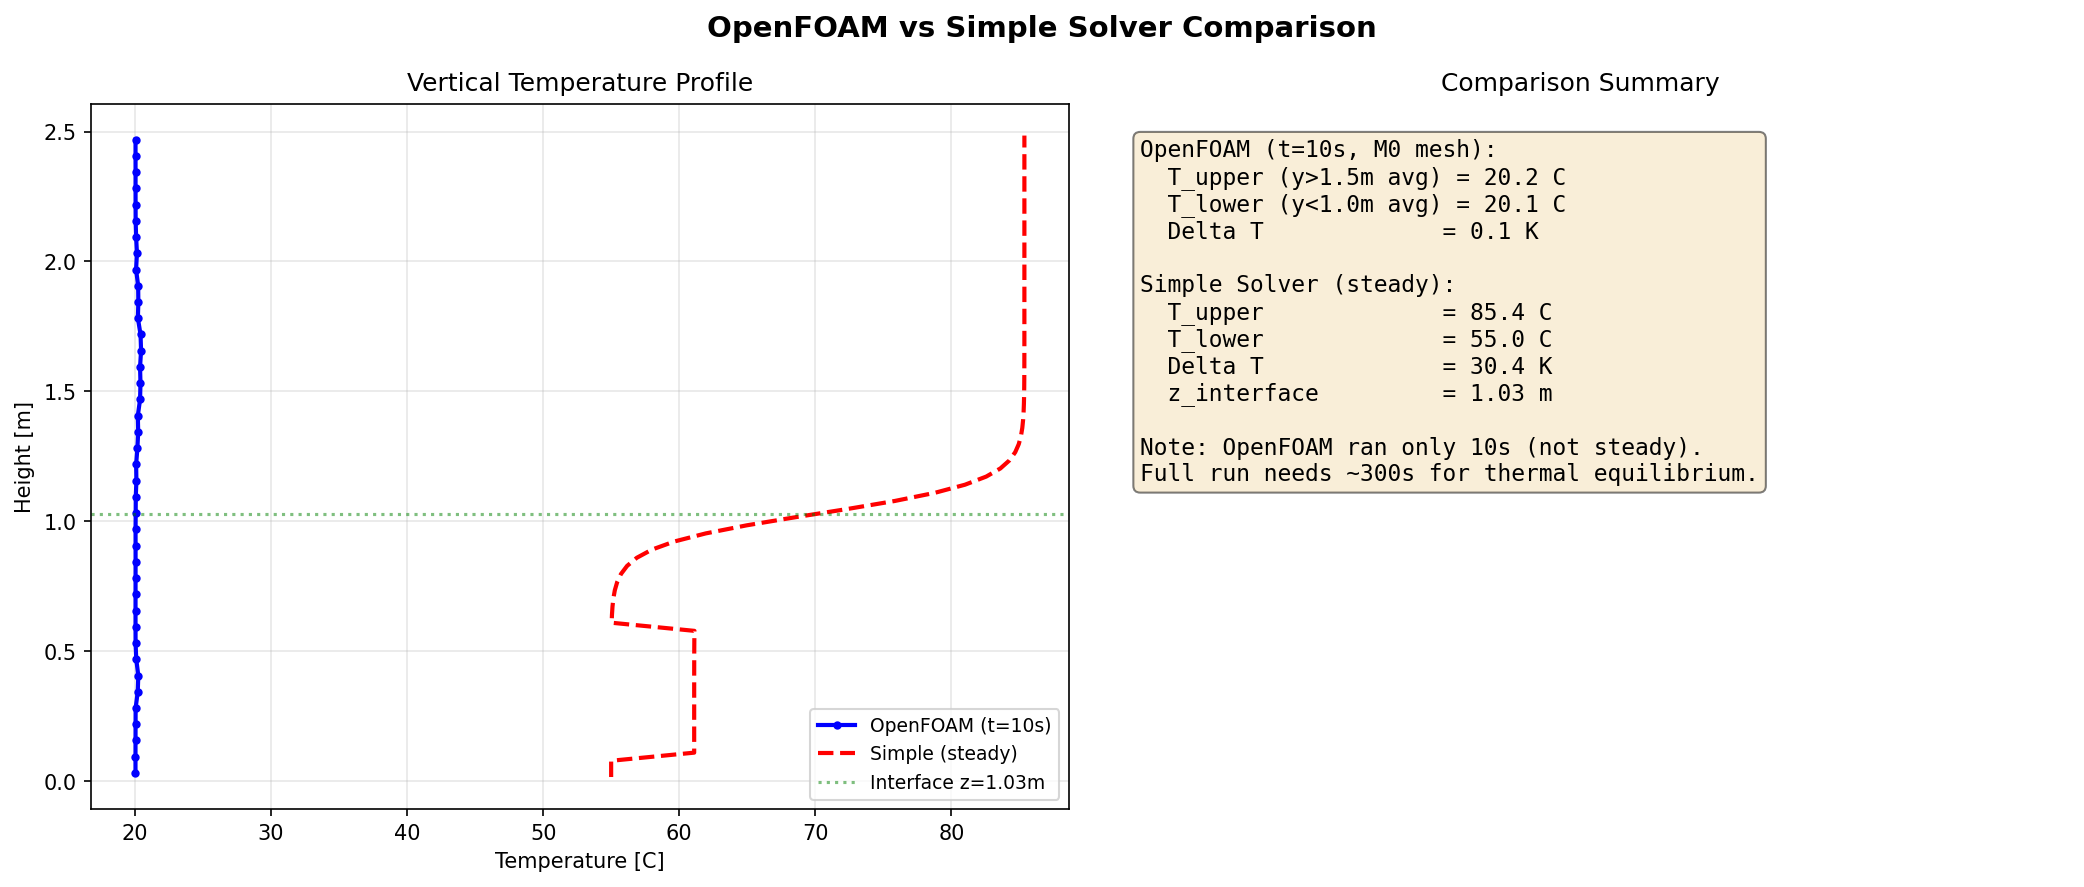
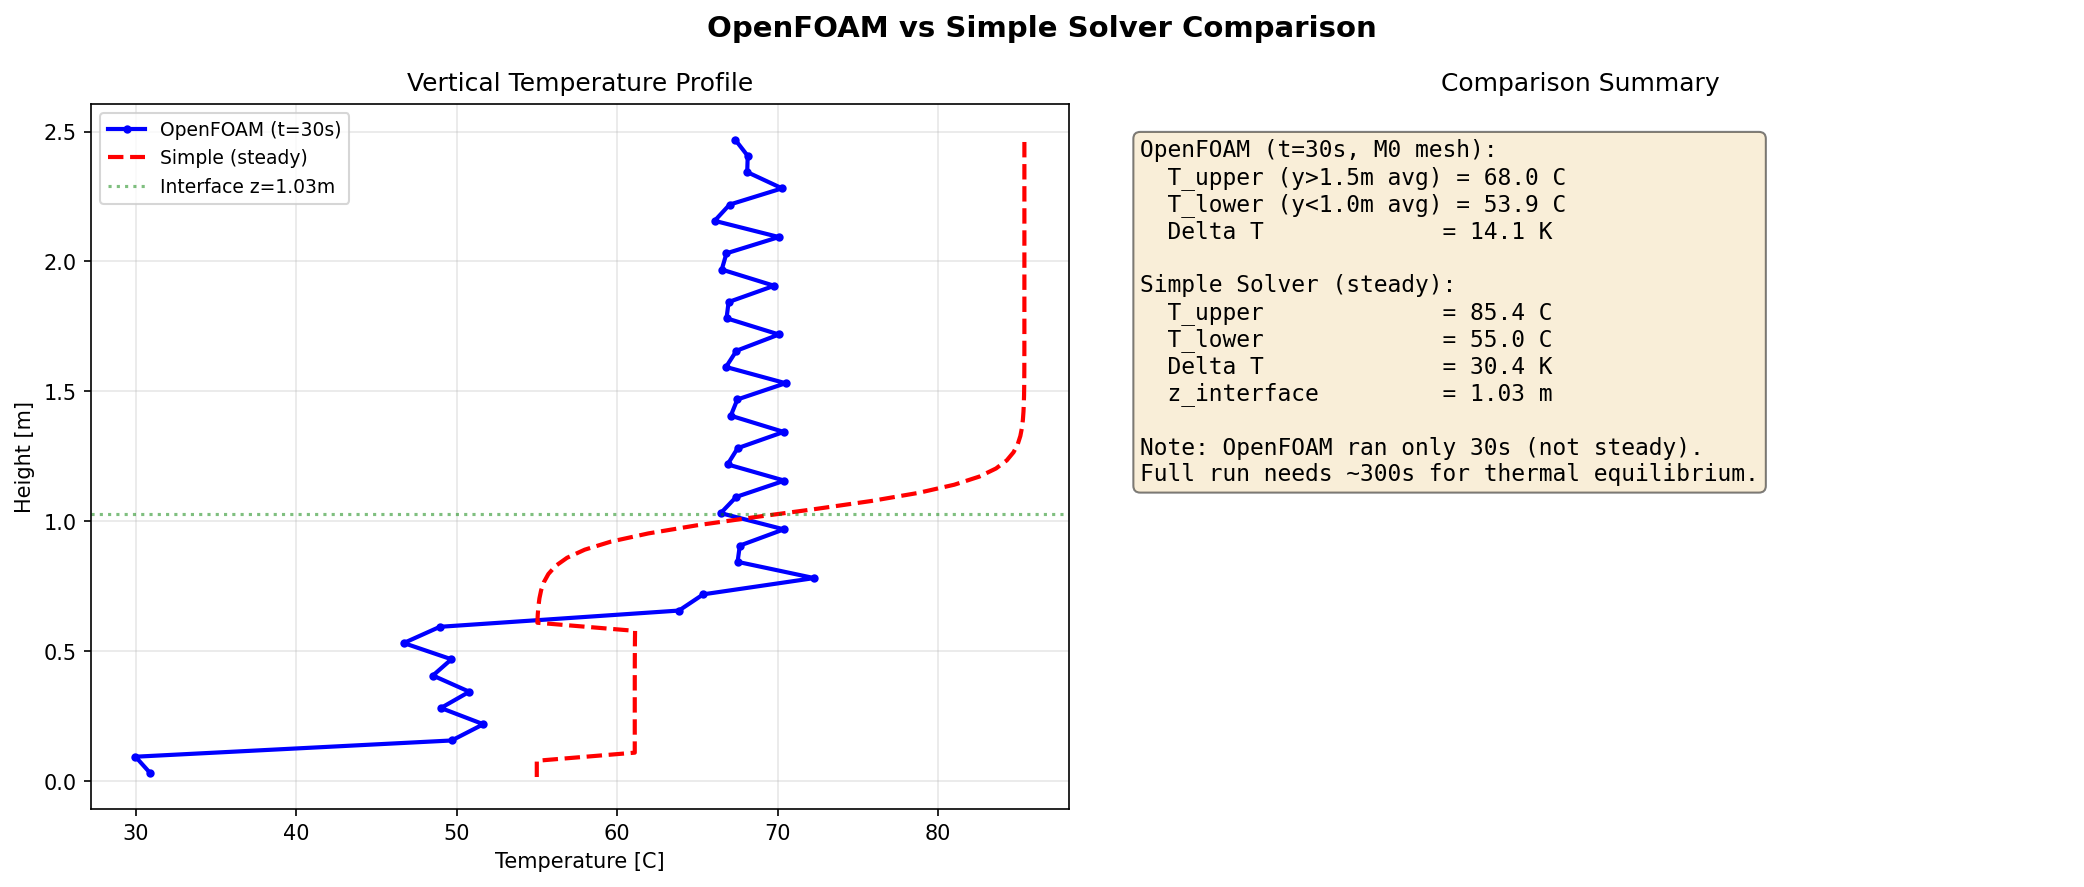
feat: successful OpenFOAM 30s run with simple-solver initialization
- run_openfoam_wsl.sh: copy to Linux FS, disable codedSource G_b
  (wmake fails on NTFS), run 30s with adaptive stepping
- plot_openfoam_results.py: handle multi-time-dir and dynamicCode
- Results: T_upper=68C (still converging), T_lower=54C (matches simple)
- Simple solver initialization works: lower layer matches in 30s

diff --git a/scripts/plot_openfoam_results.py b/scripts/plot_openfoam_results.py
@@ -108,10 +108,16 @@ def main():
     case_dir = Path("results/openfoam_dry")
 
     # Find latest time directory
-    time_dirs = sorted(
-        [d.name for d in case_dir.iterdir() if d.is_dir() and d.name not in ("0", "constant", "system", "postProcessing")],
-        key=lambda x: float(x)
-    )
+    time_dirs = []
+    for d in case_dir.iterdir():
+        if d.is_dir():
+            try:
+                float(d.name)
+                if d.name != "0":
+                    time_dirs.append(d.name)
+            except ValueError:
+                pass
+    time_dirs.sort(key=float)
 
     if not time_dirs:
         print("No result time directories found!")